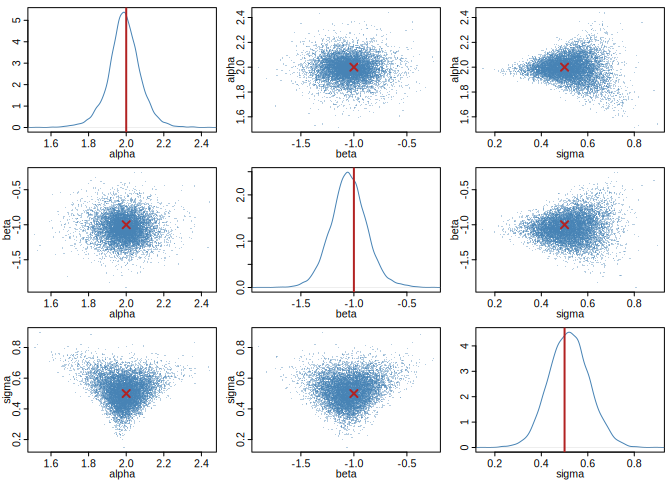
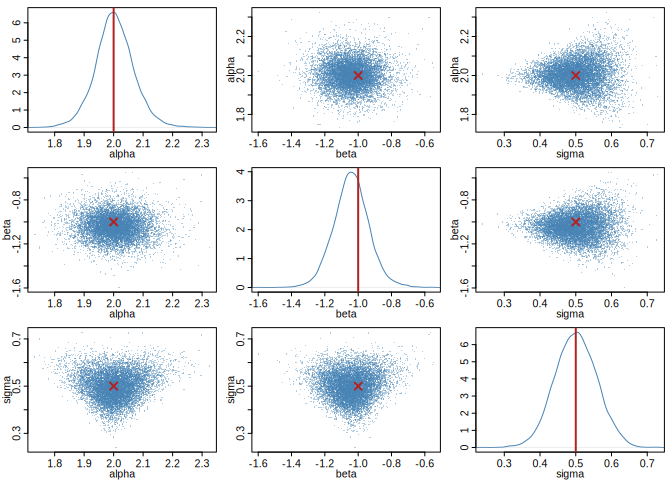
Vectorize README simulator; train longer for a cleaner posterior
Replace the row-wise apply() with a vectorized simulator: outer(beta, x) builds
the whole matrix of line means at once, and row-scaled Gaussian noise is added
in one shot. Shorter and easier to read, same model.

Bump training from 5000 to 10000 simulations. The earlier posterior looked
over-dispersed and skewed because the flow was under-trained, not because the
data set was too small — adding raw response points would instead make the
conditioning input longer and the fit worse. More simulations bring the neural
posterior SDs to within ~10-20% of the exact regression posterior, and the
marginals are now close to Gaussian.

Draw the observation under a fixed seed so the example conditions on a
representative data set whose least-squares fit sits on the truth; posterior
mean and MAP both recover (2, -1, 0.5).

diff --git a/README.md b/README.md
@@ -45,19 +45,25 @@ set.seed(1)
 N <- 50
 x <- seq(-1, 1, length.out = N)
 
-# Simulator: given (alpha, beta, sigma), draw one response vector y from
-# y ~ Normal(alpha + beta * x, sigma). It only generates data — no fitting here.
+# Simulator: given rows of (alpha, beta, sigma), draw one response vector y each
+# from y ~ Normal(alpha + beta * x, sigma). Fully vectorised over the rows of
+# theta, and it only generates data — no fitting happens here.
 simulator <- function(theta) {
-  t(apply(theta, 1, function(p) rnorm(N, mean = p[1] + p[2] * x, sd = p[3])))
+  alpha <- theta[, 1]
+  beta  <- theta[, 2]
+  sigma <- theta[, 3]
+  mu <- outer(beta, x) + alpha                       # row i is the line alpha_i + beta_i * x
+  mu + matrix(rnorm(length(mu)), nrow(mu)) * sigma   # add row-specific Gaussian noise
 }
 
 # Priors over the intercept, slope, and noise scale, then train the posterior.
 prior <- prior_uniform(low = c(-3, -3, 0.1), high = c(3, 3, 2))
-fit   <- npe(prior, simulator, n_simulations = 5000, seed = 1)
+fit   <- npe(prior, simulator, n_simulations = 10000, seed = 1)
 
 # Simulate one data set from known coefficients, then infer them back. The
 # observation the posterior conditions on is the response vector y.
 theta_true <- c(alpha = 2, beta = -1, sigma = 0.5)
+set.seed(38)                       # a fixed, representative data set
 y_obs      <- simulator(rbind(theta_true))
 post       <- posterior(fit, x_obs = y_obs)
 draws      <- sample(post, 10000)
@@ -69,7 +75,7 @@ The posterior mean recovers the coefficients that generated the data:
 rbind(truth = theta_true, posterior_mean = colMeans(draws))
 #>                   alpha      beta     sigma
 #> truth          2.000000 -1.000000 0.5000000
-#> posterior_mean 1.989139 -1.047011 0.5194744
+#> posterior_mean 2.003668 -1.041009 0.5003288
 ```
 
 ``` r
@@ -83,7 +89,7 @@ simulation-based calibration live in `vignette("diagnostics")`.
 
 ``` r
 map_estimate(post)     # posterior mode
-#> [1]  1.9931949 -1.0567096  0.4637602
+#> [1]  1.9989619 -1.0442036  0.4702335
 ```
 
 If you’re interested in sbi in other languages or functionality not